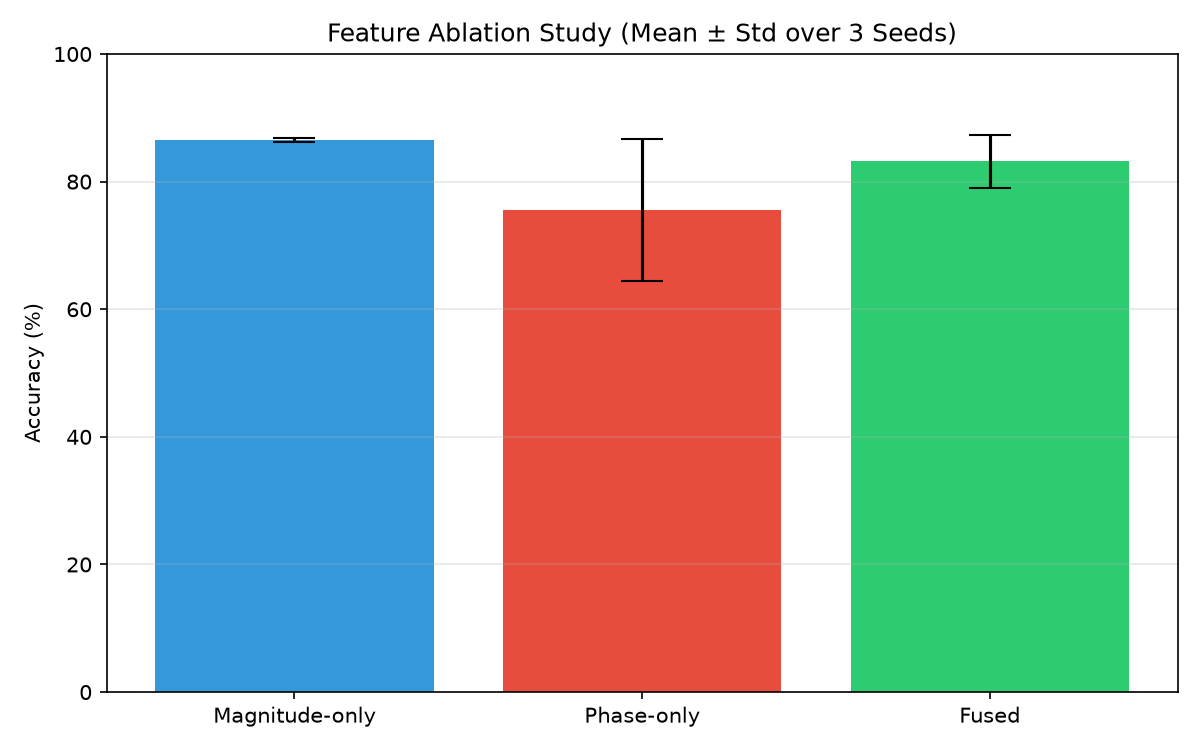
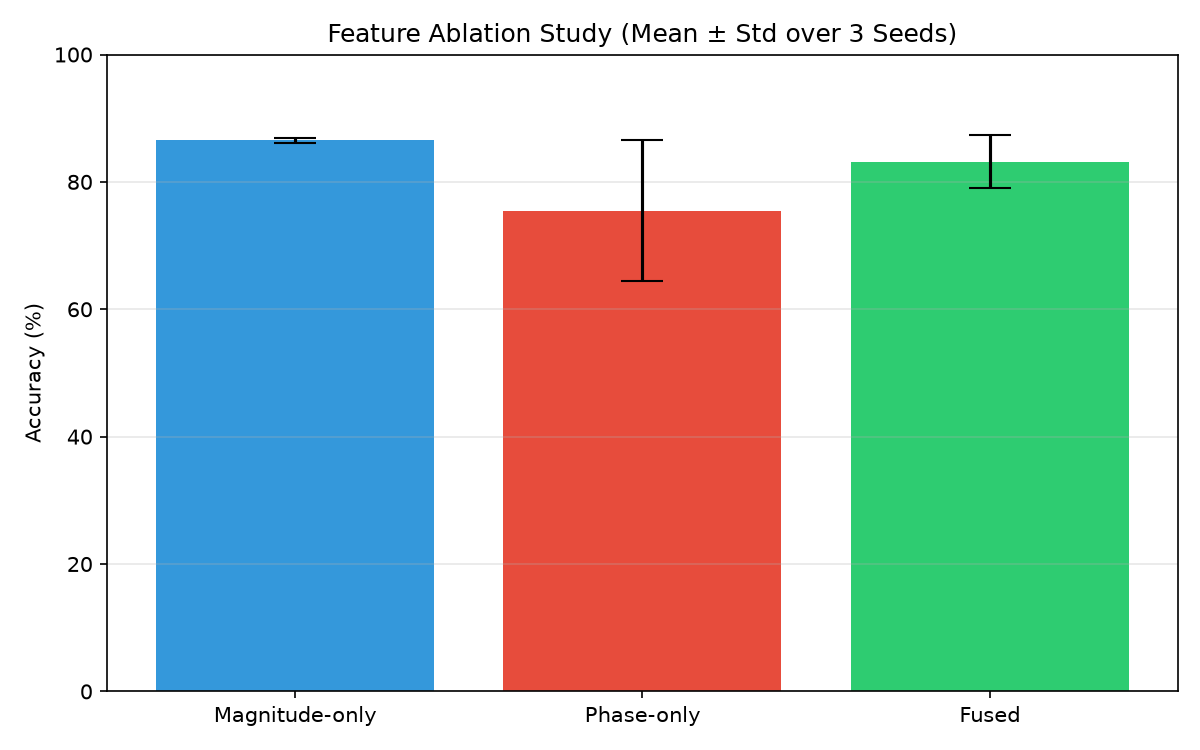
Add README plot generation script to visualization folder
- Moved generate_readme_plots.py to src/visualization/
- Generated all three README plots (confusion matrix, ablation, two-branch)
- Removed throwaway script from project root

diff --git a/src/visualization/generate_readme_plots.py b/src/visualization/generate_readme_plots.py
@@ -1,34 +1,80 @@
+"""
+generate_readme_plots.py - Generate publication-ready plots for the README.
+
+Run from project root:
+    python src/visualization/generate_readme_plots.py
+
+All plots are saved to docs/ for use in README.md.
+"""
+
+import os
+import matplotlib
+matplotlib.use('Agg')  # Non-interactive backend for headless saving
 import matplotlib.pyplot as plt
 import numpy as np
 import seaborn as sns
 
-# --- PLOT 1: Confusion Matrix ---
-cm = np.array([[496, 4], [108, 392]]) # From your two_branch_results.json
+# Ensure docs/ folder exists
+os.makedirs('docs', exist_ok=True)
+
+print("Generating README plots...\n")
+
+# ==========================================
+# PLOT 1: Confusion Matrix
+# ==========================================
+print("[1/3] Confusion matrix...")
+cm = np.array([[496, 4], [108, 392]])
 
 plt.figure(figsize=(6, 5))
-sns.heatmap(cm, annot=True, fmt='d', cmap='Blues', 
-            xticklabels=['Real', 'Fake'], 
+sns.heatmap(cm, annot=True, fmt='d', cmap='Blues',
+            xticklabels=['Real', 'Fake'],
             yticklabels=['Real', 'Fake'])
 plt.title('Confusion Matrix (Best Model: 89.1% Accuracy)')
 plt.ylabel('Actual')
 plt.xlabel('Predicted')
 plt.tight_layout()
-plt.savefig('results/readme_confusion_matrix.png', dpi=150)
+plt.savefig('docs/readme_confusion_matrix.png', dpi=150)
 plt.close()
-print("Saved confusion matrix.")
+print("   Saved: docs/readme_confusion_matrix.png")
 
-# --- PLOT 2: Ablation Study Bar Chart ---
+# ==========================================
+# PLOT 2: Feature Ablation Bar Chart
+# ==========================================
+print("[2/3] Feature ablation chart...")
 models = ['Magnitude-only', 'Phase-only', 'Fused']
 means = [86.50, 75.50, 83.17]
 stds = [0.35, 11.14, 4.18]
 
 plt.figure(figsize=(8, 5))
-plt.bar(models, means, yerr=stds, capsize=10, color=['#3498db', '#e74c3c', '#2ecc71'])
+plt.bar(models, means, yerr=stds, capsize=10,
+        color=['#3498db', '#e74c3c', '#2ecc71'])
 plt.ylabel('Accuracy (%)')
 plt.title('Feature Ablation Study (Mean ± Std over 3 Seeds)')
 plt.ylim(0, 100)
 plt.grid(axis='y', alpha=0.3)
 plt.tight_layout()
-plt.savefig('results/readme_ablation_bar.png', dpi=150)
+plt.savefig('docs/readme_ablation_bar.png', dpi=150)
 plt.close()
-print("Saved ablation bar chart.")
+print("   Saved: docs/readme_ablation_bar.png")
+
+# ==========================================
+# PLOT 3: Two-Branch Comparison
+# ==========================================
+print("[3/3] Two-branch comparison...")
+models_tb = ['Magnitude-only', 'Naive Fused', 'Two-Branch']
+means_tb = [88.97, 89.10, 88.90]
+stds_tb = [0.12, 0.08, 0.08]
+
+plt.figure(figsize=(8, 5))
+plt.bar(models_tb, means_tb, yerr=stds_tb, capsize=10,
+        color=['#3498db', '#f39c12', '#9b59b6'])
+plt.ylabel('Accuracy (%)')
+plt.title('Two-Branch Architecture Comparison (5K Samples, 3 Seeds)')
+plt.ylim(0, 100)
+plt.grid(axis='y', alpha=0.3)
+plt.tight_layout()
+plt.savefig('docs/readme_two_branch.png', dpi=150)
+plt.close()
+print("   Saved: docs/readme_two_branch.png")
+
+print("\nAll plots saved to docs/")
